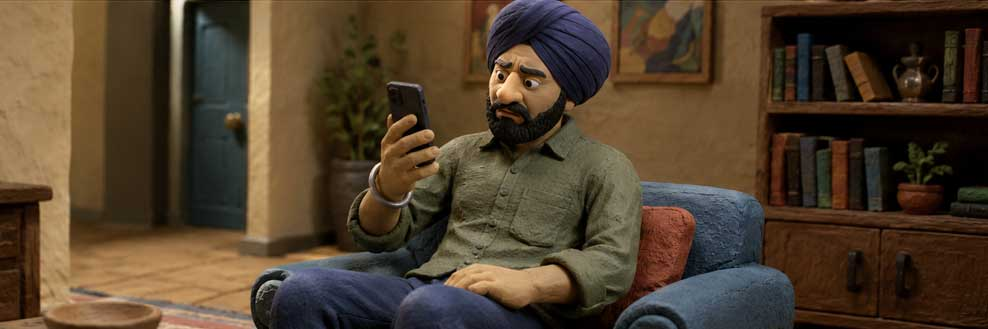
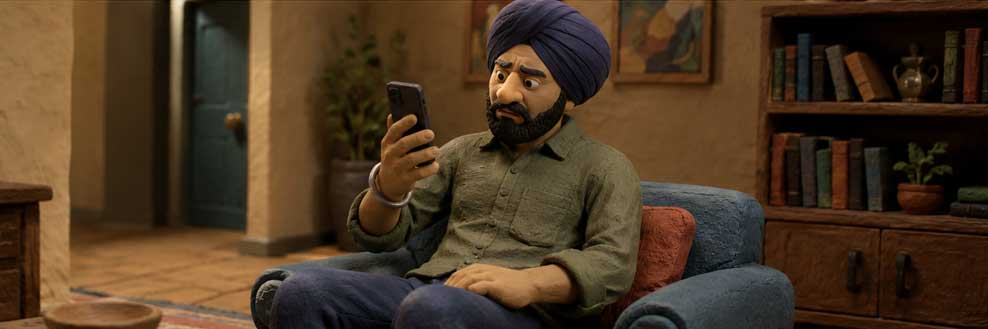
(1) Add a page for the "Vehicle Trip Analyst" project.

diff --git a/OneHundredAgentsCom/wwwroot/vehicle-trip-analyst.md b/OneHundredAgentsCom/wwwroot/vehicle-trip-analyst.md
@@ -1,0 +1,19 @@
+# Vehicle Trip Analyst
+
+Vehicle Trip Analyst was built to test Hugging Face’s smolagents framework on a small, useful business task: asking questions about vehicle trip data in plain English. The user can ask things like which driver took the most trips, which vehicle travelled the furthest, or which vehicles have no recorded journeys. The agent turns the question into a database query, checks the result, and replies in normal language.
+
+The learning focus was smolagents itself. The “smol” idea fits the project well: keep the agent small, keep the code understandable, and see how quickly a code-focused agent can be wired to a real tool. For this kind of proof of concept, the framework felt direct and approachable.
+
+The more interesting part came after the first success. Once the agent could query the database, safeguards were added so it only performed safe read-only queries. That changed the experiment from “can it produce SQL?” to “can it be useful while staying inside a clear boundary?” That is the shape of the business capability: natural language access to operational data, with controls around what the agent is allowed to do.
+
+::: SIDEBAR :::
+
+Language: Python
+Framework: [smolagents](https://huggingface.co/docs/smolagents/index)
+Pattern: Single agent
+Model: [Llama-3.1-8B-Instruct](https://huggingface.co/meta-llama/Llama-3.1-8B-Instruct)
+---
+
+Repository: [GitHub](https://github.com/SomeNewKid/VehicleTripAnalyst)
+
+::: /SIDEBAR :::
